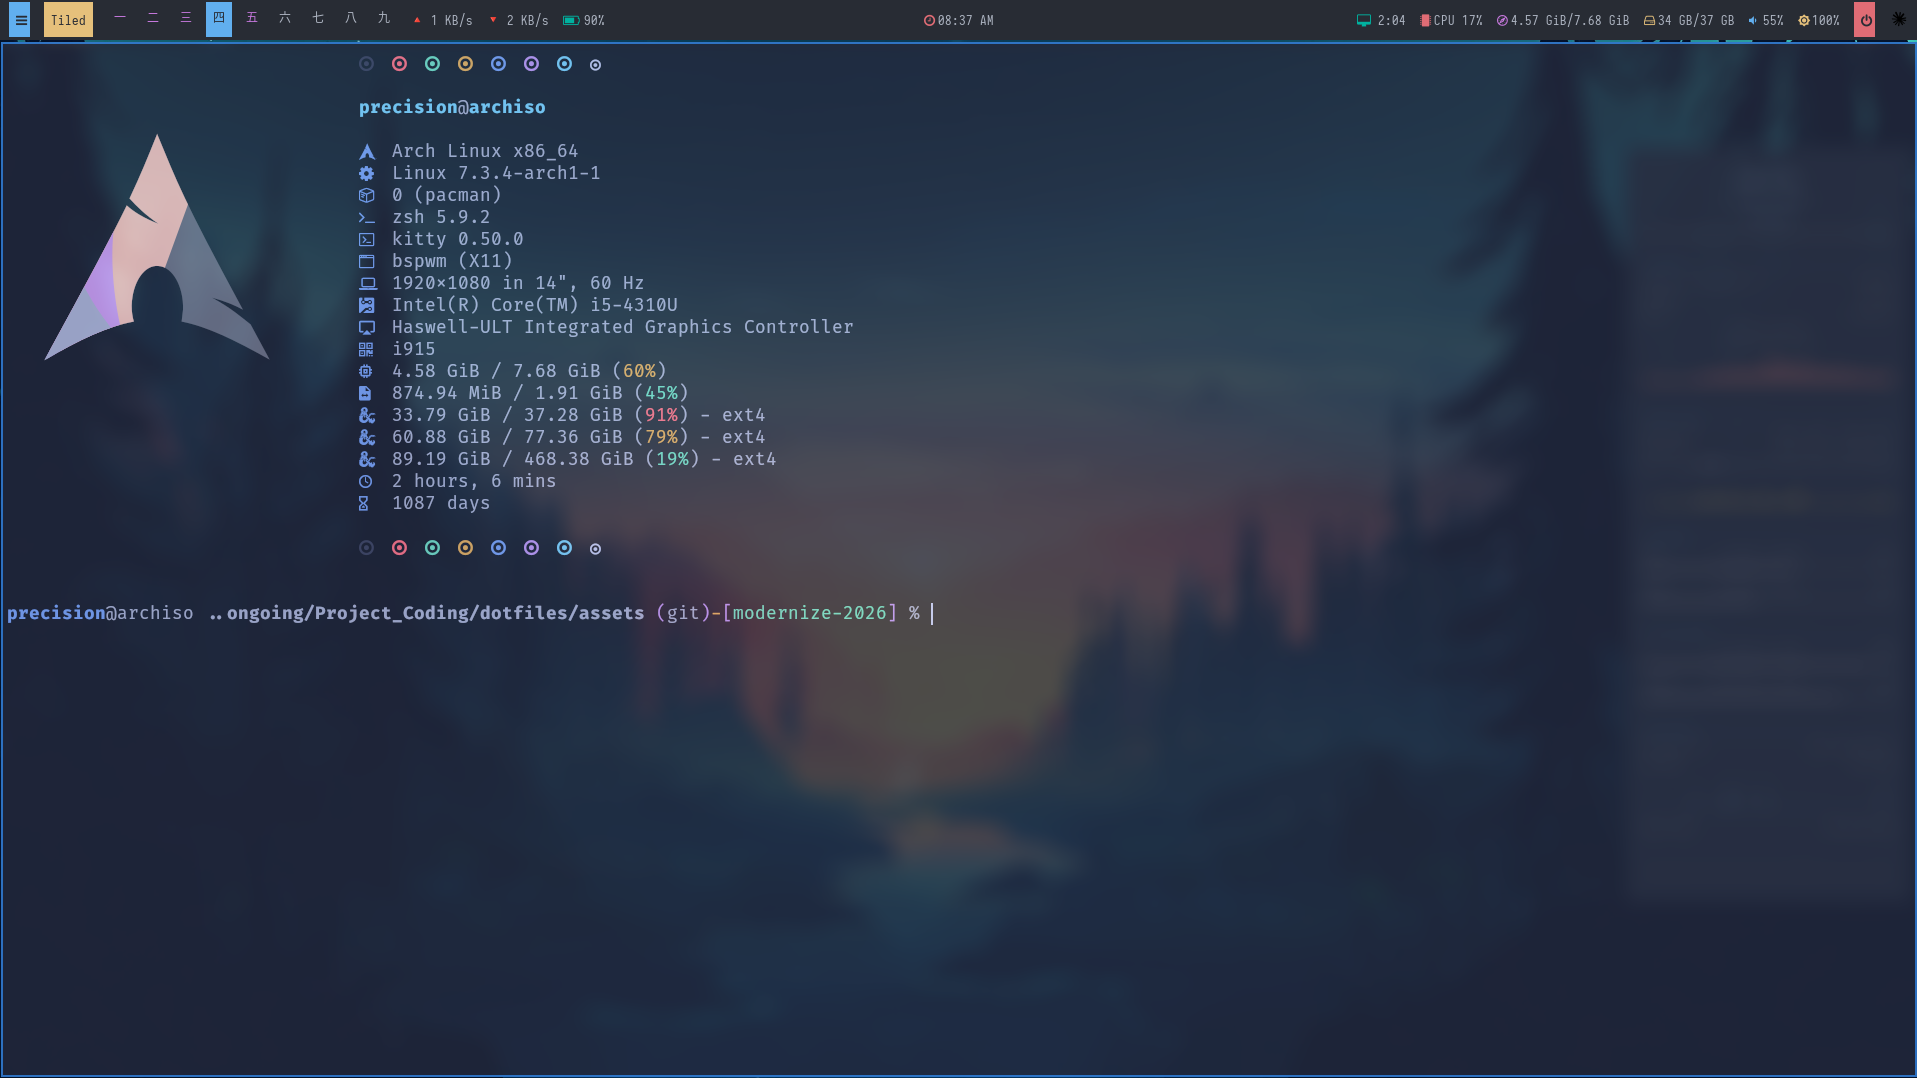
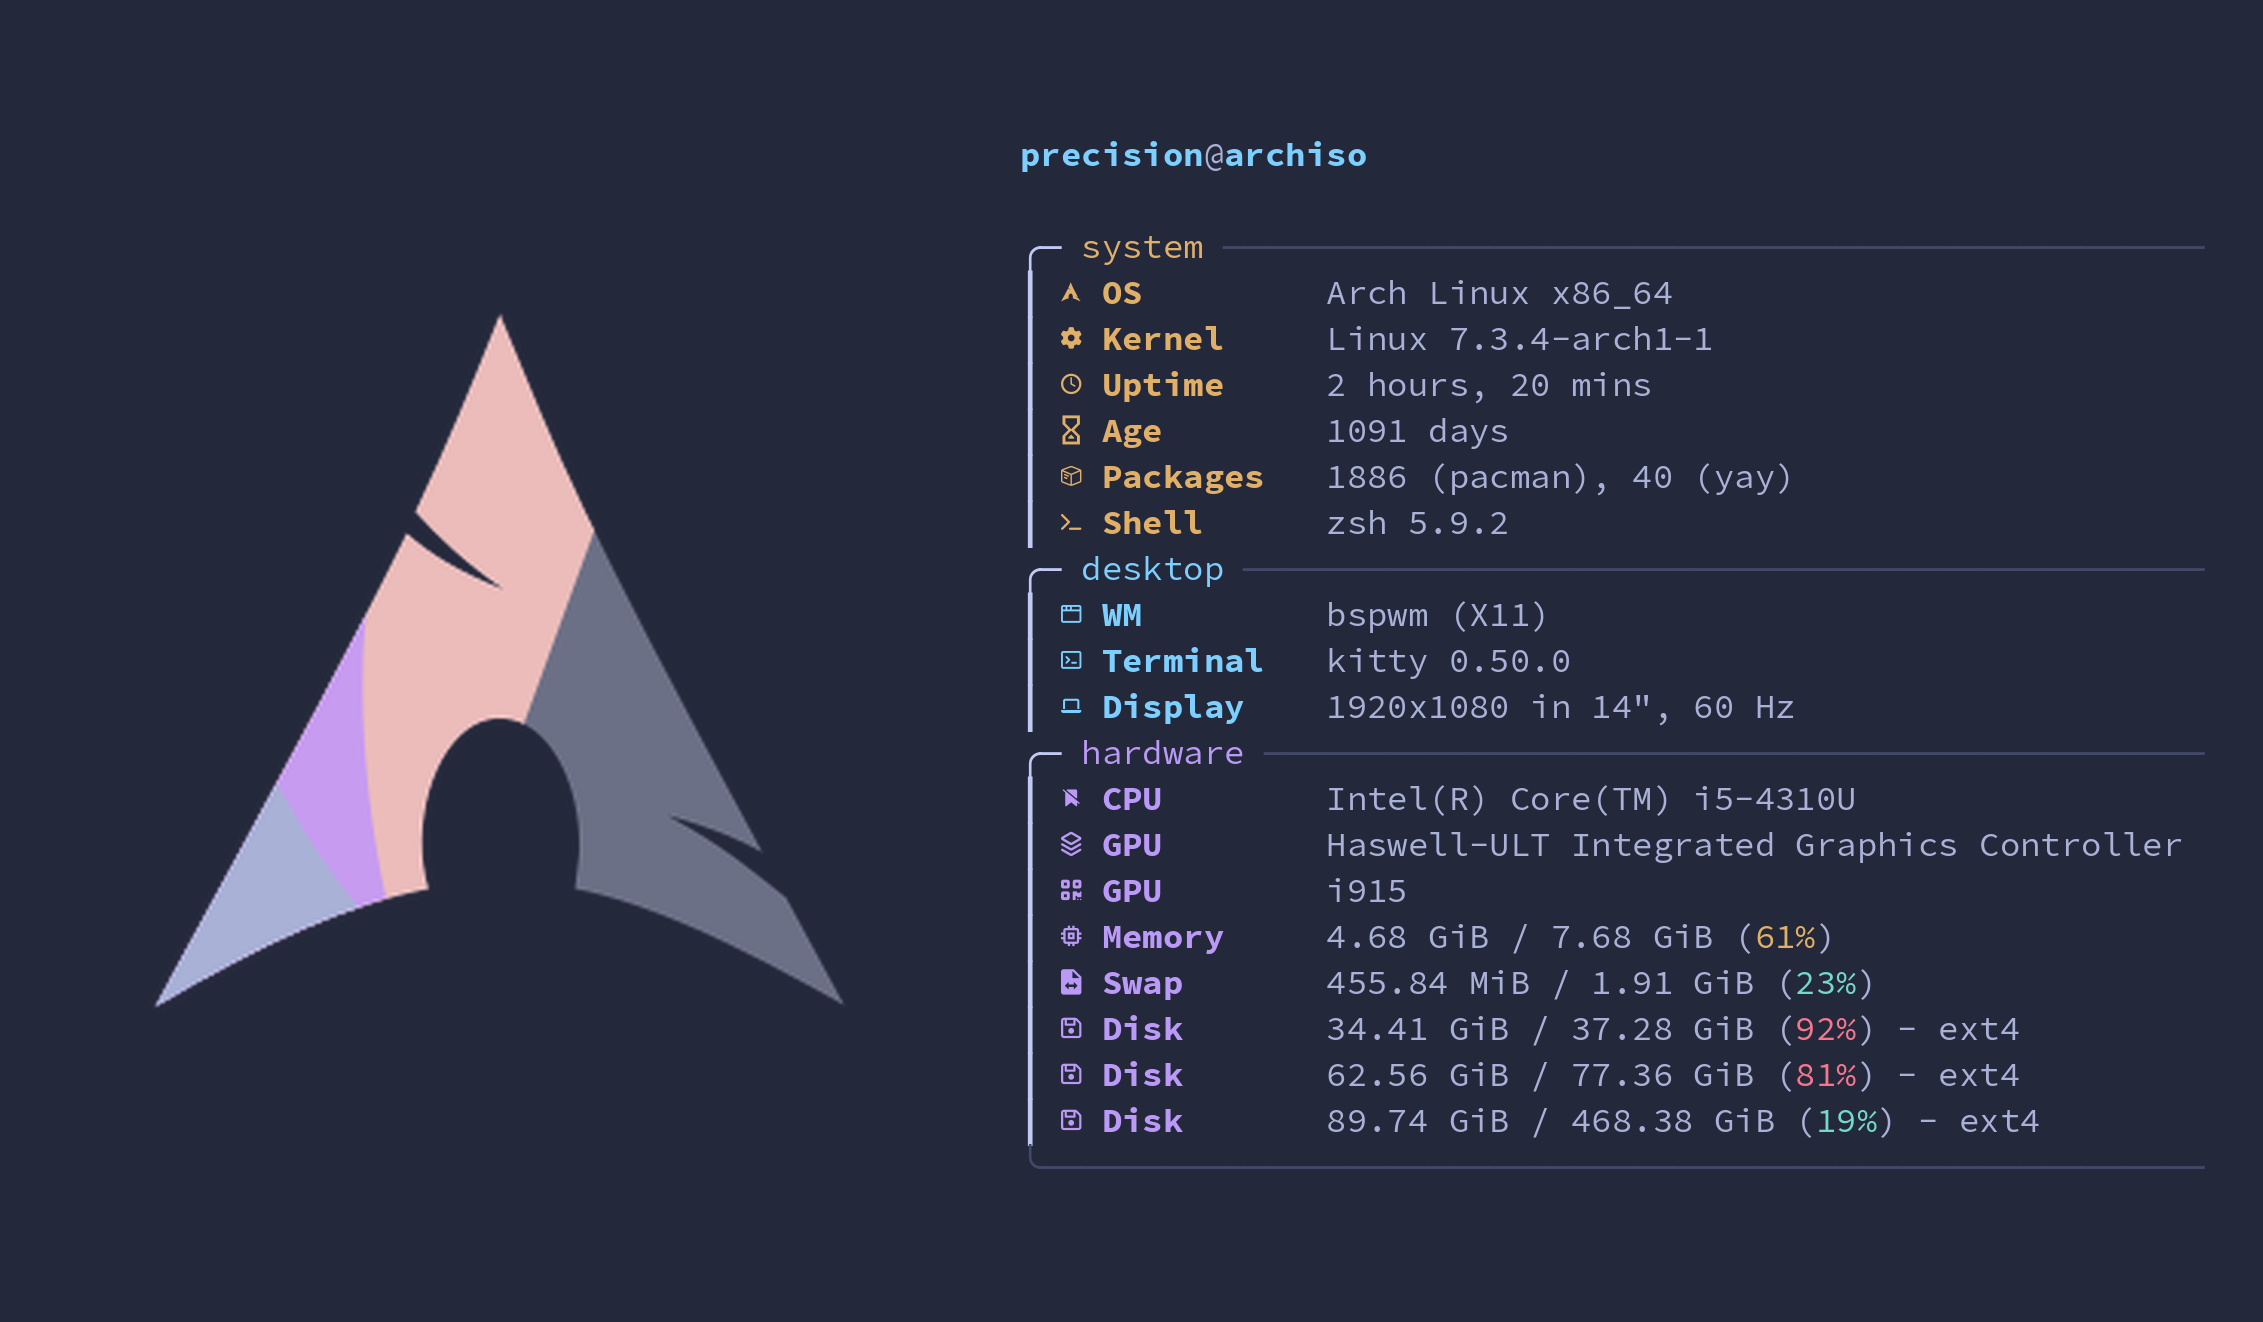
fastfetch: new demo image of the redesigned panel
Replace assets/fastfetch_demo.png and fastfetch/preview.png with a render of the
current fastfetch panel (sections, per-section colors, restored icons, pacman +
yay split). Add fastfetch/scripts/render-demo.py, which renders the real ANSI
output with the kitty palette and SauceCodePro font -- no window screenshot.

diff --git a/fastfetch/scripts/render-demo.py b/fastfetch/scripts/render-demo.py
@@ -1,0 +1,84 @@
+#!/usr/bin/env python3
+# Render the live fastfetch output to a PNG demo image (assets/fastfetch_demo.png
+# and fastfetch/preview.png). This renders the real ANSI output with the kitty
+# tokyonight palette and the SauceCodePro Nerd Font -- it does NOT screenshot any
+# window. Dev tool; needs Pillow. Run it from the repo root after config changes:
+#   python3 fastfetch/scripts/render-demo.py
+import re, os, subprocess
+from PIL import Image, ImageDraw, ImageFont
+
+REPO = os.path.realpath(os.path.join(os.path.dirname(__file__), "..", ".."))
+FONTDIR = os.path.expanduser("~/.local/share/fonts/SauceCodePro")
+MONO_REG = f"{FONTDIR}/SauceCodeProNerdFontMono-Regular.ttf"
+MONO_BLD = f"{FONTDIR}/SauceCodeProNerdFontMono-Bold.ttf"
+SIZE = 34
+
+# tokyonight, from kitty/kitty.conf
+PAL = {'30':'#414868','90':'#414868','31':'#f7768e','91':'#f7768e',
+       '32':'#73daca','92':'#73daca','33':'#e0af68','93':'#e0af68',
+       '34':'#7aa2f7','94':'#7aa2f7','35':'#bb9af7','95':'#bb9af7',
+       '36':'#7dcfff','96':'#7dcfff','37':'#c0caf5','97':'#c0caf5'}
+FG = '#a9b1d6'; BG = (0x24,0x28,0x3b)
+
+cfg = f"{REPO}/fastfetch/config.jsonc"
+# Run fastfetch under the login shell (zsh), not directly: fastfetch reads the
+# Shell field from its PARENT process, so a direct subprocess call would report
+# "python". The trailing "; true" matters -- without a following command zsh
+# exec-replaces itself with fastfetch, making python the parent again.
+raw = subprocess.run(["zsh","-c", f"fastfetch -c '{cfg}' --logo none --pipe false; true"],
+                     capture_output=True, text=True).stdout
+# fastfetch reports the terminal it runs under; outside a real kitty (e.g. in CI
+# or an agent pty) that is wrong, so normalise it to the real terminal, kitty.
+try:
+    kver = subprocess.run(["kitty","--version"], capture_output=True, text=True).stdout.split()[1]
+    raw = re.sub(r"(Terminal\S*\s*\x1b\[\d+G\x1b\[m)[^\n]*", rf"\g<1>kitty {kver}", raw, count=1)
+except Exception:
+    pass
+
+lines = raw.split("\n")
+while lines and lines[-1].strip() == "":
+    lines.pop()
+
+grid = []; maxcol = 0
+for line in lines:
+    cells = {}; col = 0; color = FG; bold = False; i = 0
+    while i < len(line):
+        if line[i] == "\x1b":
+            m = re.match(r"\x1b\[([0-9;]*)([A-Za-z])", line[i:])
+            if not m:
+                i += 1; continue
+            params, fin = m.group(1), m.group(2)
+            if fin == "m":
+                for code in (params.split(";") if params else ["0"]):
+                    if code in ("","0"): color=FG; bold=False
+                    elif code=="1": bold=True
+                    elif code=="22": bold=False
+                    elif code=="39": color=FG
+                    elif code in PAL: color=PAL[code]
+            elif fin == "G":
+                col = (int(params)-1) if params else 0
+            i += m.end(); continue
+        cells[col] = (line[i], color, bold); maxcol = max(maxcol, col); col += 1; i += 1
+    grid.append(cells)
+
+fR = ImageFont.truetype(MONO_REG, SIZE); fB = ImageFont.truetype(MONO_BLD, SIZE)
+cw = fR.getlength("M"); asc, desc = fR.getmetrics(); lh = int((asc+desc)*1.05)
+pad = int(cw*2); panel_w = int((maxcol+2)*cw); panel_h = int(len(grid)*lh)
+
+logo = Image.open(f"{REPO}/fastfetch/images/arch.png").convert("RGBA")
+scale = int(panel_h*0.74) / logo.height
+logo = logo.resize((int(logo.width*scale), int(panel_h*0.74)), Image.LANCZOS)
+
+gap = int(cw*3)
+W = pad + logo.width + gap + panel_w + pad; H = pad + panel_h + pad
+img = Image.new("RGB", (W, H), BG)
+img.paste(logo, (pad, (H-logo.height)//2), logo)
+draw = ImageDraw.Draw(img)
+x0 = pad + logo.width + gap
+for r, cells in enumerate(grid):
+    for col,(chx,color,bold) in cells.items():
+        if chx != " ":
+            draw.text((x0+col*cw, pad+r*lh), chx, font=(fB if bold else fR), fill=color)
+
+for out in (f"{REPO}/assets/fastfetch_demo.png", f"{REPO}/fastfetch/preview.png"):
+    img.save(out); print(f"wrote {out}  {img.size}")
